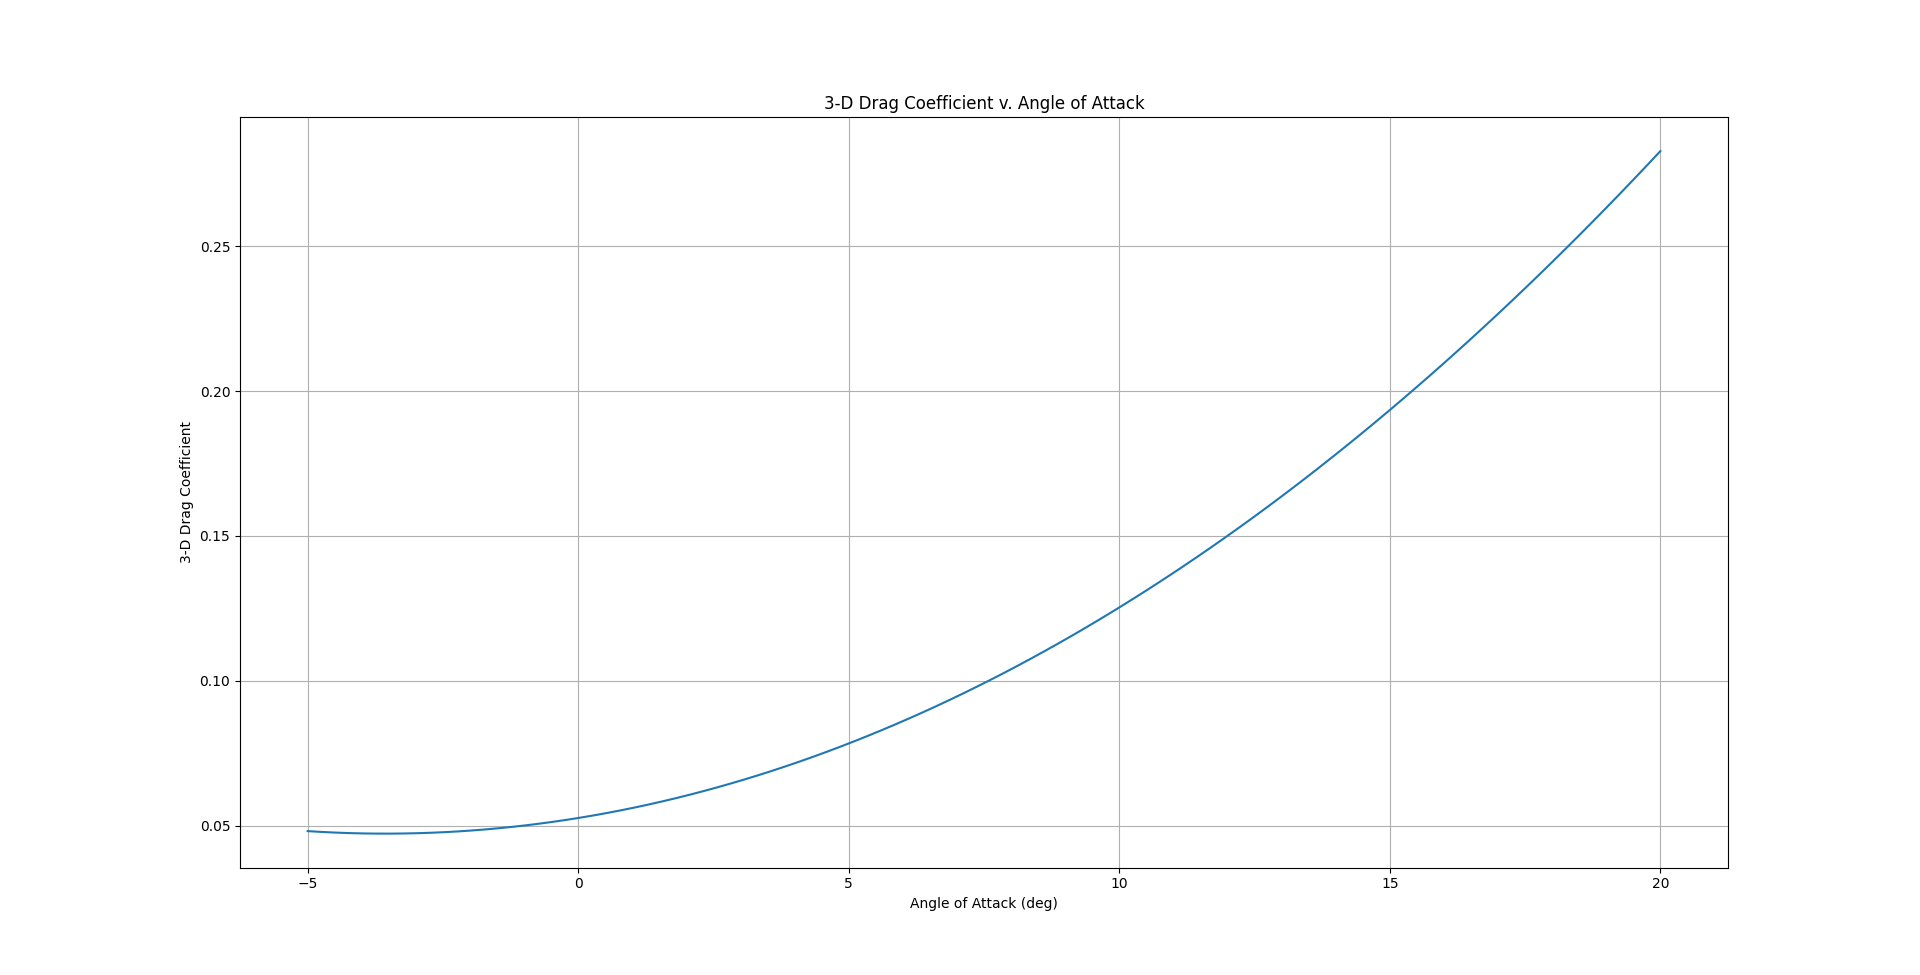
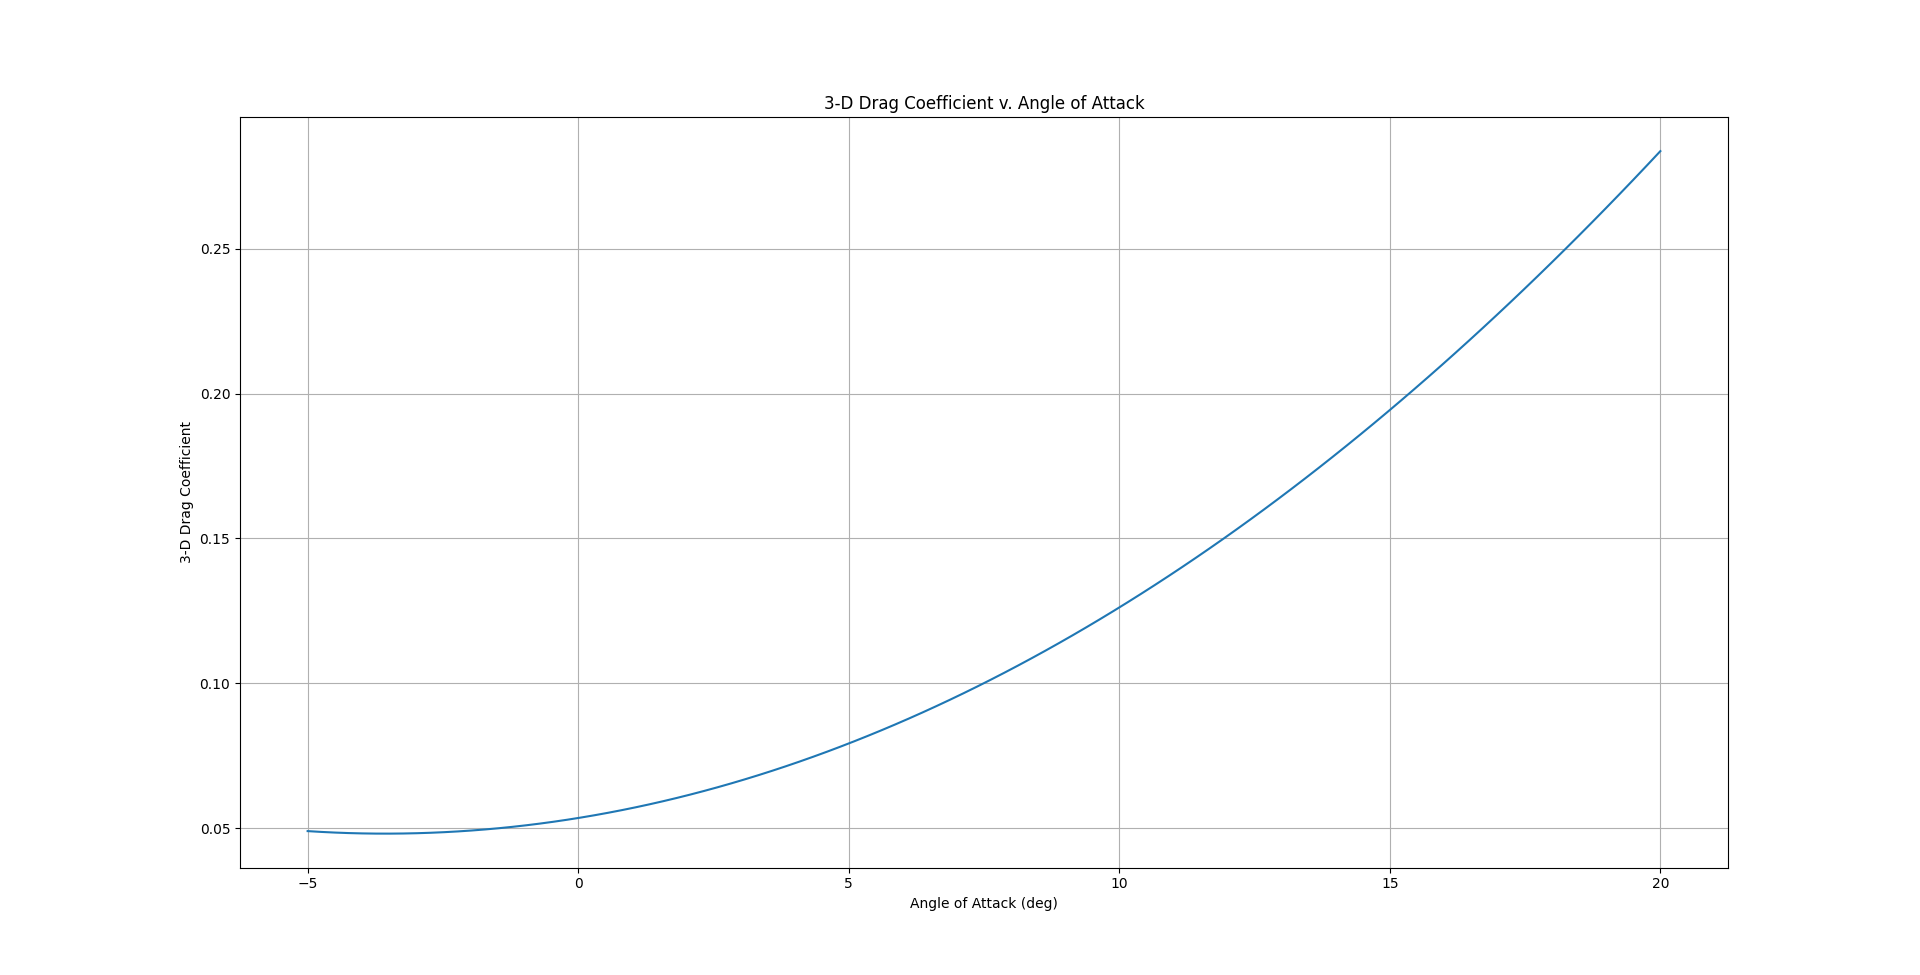
Add files via upload

Changed region(s): [[0.0938, 0.8308, 0.125, 0.8615], [0.0938, 0.6769, 0.125, 0.7077], [0.0938, 0.2462, 0.125, 0.2769]]

diff --git a/MAE155B_Aero/MAE155B_Aero.py b/MAE155B_Aero/MAE155B_Aero.py
@@ -1,4 +1,4 @@
-### MAE155B Aerodynamics [WIP]
+### MAE155B Aerodynamics
 # Made By: Lance De La Cruz
 
 ## Outline
@@ -101,6 +101,7 @@ Cf_fuse = 0.455/((math.log(Re_fuse, 10)**2.58)*(1+(0.144*M**2))**0.65) # turbule
 
 # Landing Gear
 Cd_land = 1.01 # assumed drag coefficient for landing gear
+A_land = 0.199898*0.100076*0.0029972 # assumed frontal area of the landing gear [in m2]
 
 # Motor
 Cd_motor = 0.34 # assumed drag coefficient for motor
@@ -113,7 +114,7 @@ Lambda_max = 0 # max sweep angle
 Lambda_m = 0 # some sort of sweep angle (doesn't rlly matter, only goes to trig functions)
 
 ## 3-D Coefficient Calculation
-alp = np.linspace(-5,20,100)
+alp = np.linspace(-5,20,101)
 
 # 3-D Lift Calculation
 beta = math.sqrt(1-(M**2))
@@ -132,7 +133,7 @@ FF_wing = (1+(0.6*t_c_wing/x_c_wing)+(100*t_c_wing**4))*((1.34*M**0.18)*(math.co
 FF_hs = (1+(0.6*t_c_hs/x_c_hs)+(100*t_c_hs**4))*((1.34*M**0.18)*(math.cos(Lambda_m)**0.28))
 FF_vs = (1+(0.6*t_c_vs/x_c_vs)+(100*t_c_vs**4))*((1.34*M**0.18)*(math.cos(Lambda_m)**0.28))
 FF_fuse = 1+(60/f_fuse**3)+(f_fuse/400)
-CD_min = ((Cf_wing*FF_wing*Q*S_wet_wing)+(Cf_hs*FF_hs*Q*S_wet_hs)+(Cf_vs*FF_vs*Q*S_wet_vs)+(Cf_fuse*FF_fuse*Q*S_wet_fuse))/S_ref_wing
+CD_min = ((Cf_wing*FF_wing*Q*S_wet_wing)+(Cf_hs*FF_hs*Q*S_wet_hs)+(Cf_vs*FF_vs*Q*S_wet_vs)+(Cf_fuse*FF_fuse*Q*S_wet_fuse)+(Cd_motor*A_motor)+(Cd_land*A_land))/S_ref_wing
 CD = CD_min+(K*(CL-CL_min)**2)+(CL**2/(math.pi*e*AR))
 CD_cruise = CD_min+(K*(CL_cruise-CL_min)**2)+(CL_cruise**2/(math.pi*e*AR))
 CD_max = max(CD)
@@ -168,3 +169,40 @@ aero_tab.add_row(["Lift-to-Drag Ratio (min)", "---", CL_min/CD_min])
 
 print(aero_tab)
 
+## Takeoff Analysis
+# Requried Parameters
+W0 = 25.408 # gross weight (refer to MAE155B_Sizing_Scoring.py)
+CD0 = 0.06 # drag coefficient when aoa = 0
+CL0 = 0.26 # lift coefficient when aoa = 0
+Fc = 0.03 # rolling friction coefficient
+T_to = 8.496 # thrust value from propeller data [in N]
+prop_data = pd.read_csv("MAE155B_Data/9x6E_data_9000rpm.csv")
+
+# Takeoff Analysis Calculations
+CL_to = 0.8*CL_max # takeoff lift coefficient
+V_to = math.sqrt((2*W0)/(CL_to*rho*S_ref_wing)) # takeoff velocity [in m/s]
+V_to_70 = 0.7*V_to
+D_to = 0.5*rho*V_to_70**2*CD0*S_ref_wing # drag at cruise [in N]
+L_to = 0.5*rho*V_to_70**2*CL0*S_ref_wing # drag at cruise [in N]
+a_m = (g/W0)*((T_to-D_to)-(Fc*(W0-L_to))) # estimated mean acceleration [in m/s]
+S_G = V_to**2/(2*a_m) # estimated ground roll distance
+
+# Thrust v. Velocity Plot
+V = prop_data["V"]*0.44704 # velocity array from propeller data [in m/s]
+T = prop_data["Thrust.1"] # thrust array from propeller data [in N]
+CL_1 = W0/(S_ref_wing*0.5*rho*V**2)
+CD_1 = CD0 + (CL_1**2/(math.pi*e*AR))
+D = 0.5*rho*V**2*CD_1*S_ref_wing # drag array based on propelelr data [in N]
+plt.plot(V,T, label="Thrust", color="blue")
+plt.plot(V[4::],D[4::], label="Drag", color="red")
+plt.plot([18.597], [4.552], label="Max Speed", marker='o', color="green")
+plt.plot(V[16], T[16], label="Cruise Speed", marker='o', color="purple")
+anno_pt1 = (18.597, 4.552)
+anno_pt2 = (19, 4.4)
+plt.annotate("60% of Max. Thrust", anno_pt1, anno_pt2)
+plt.grid() # adds grid to plot
+plt.xlabel("Aircraft Velocity [in m/s]") # labels x axis
+plt.ylabel("Aerodynamic Forces [in N]") # labels y axis
+plt.title("Aerodynamic Forces v. Aircraft Velocity") # titles the plot
+plt.legend() # displays the legend
+plt.show()
